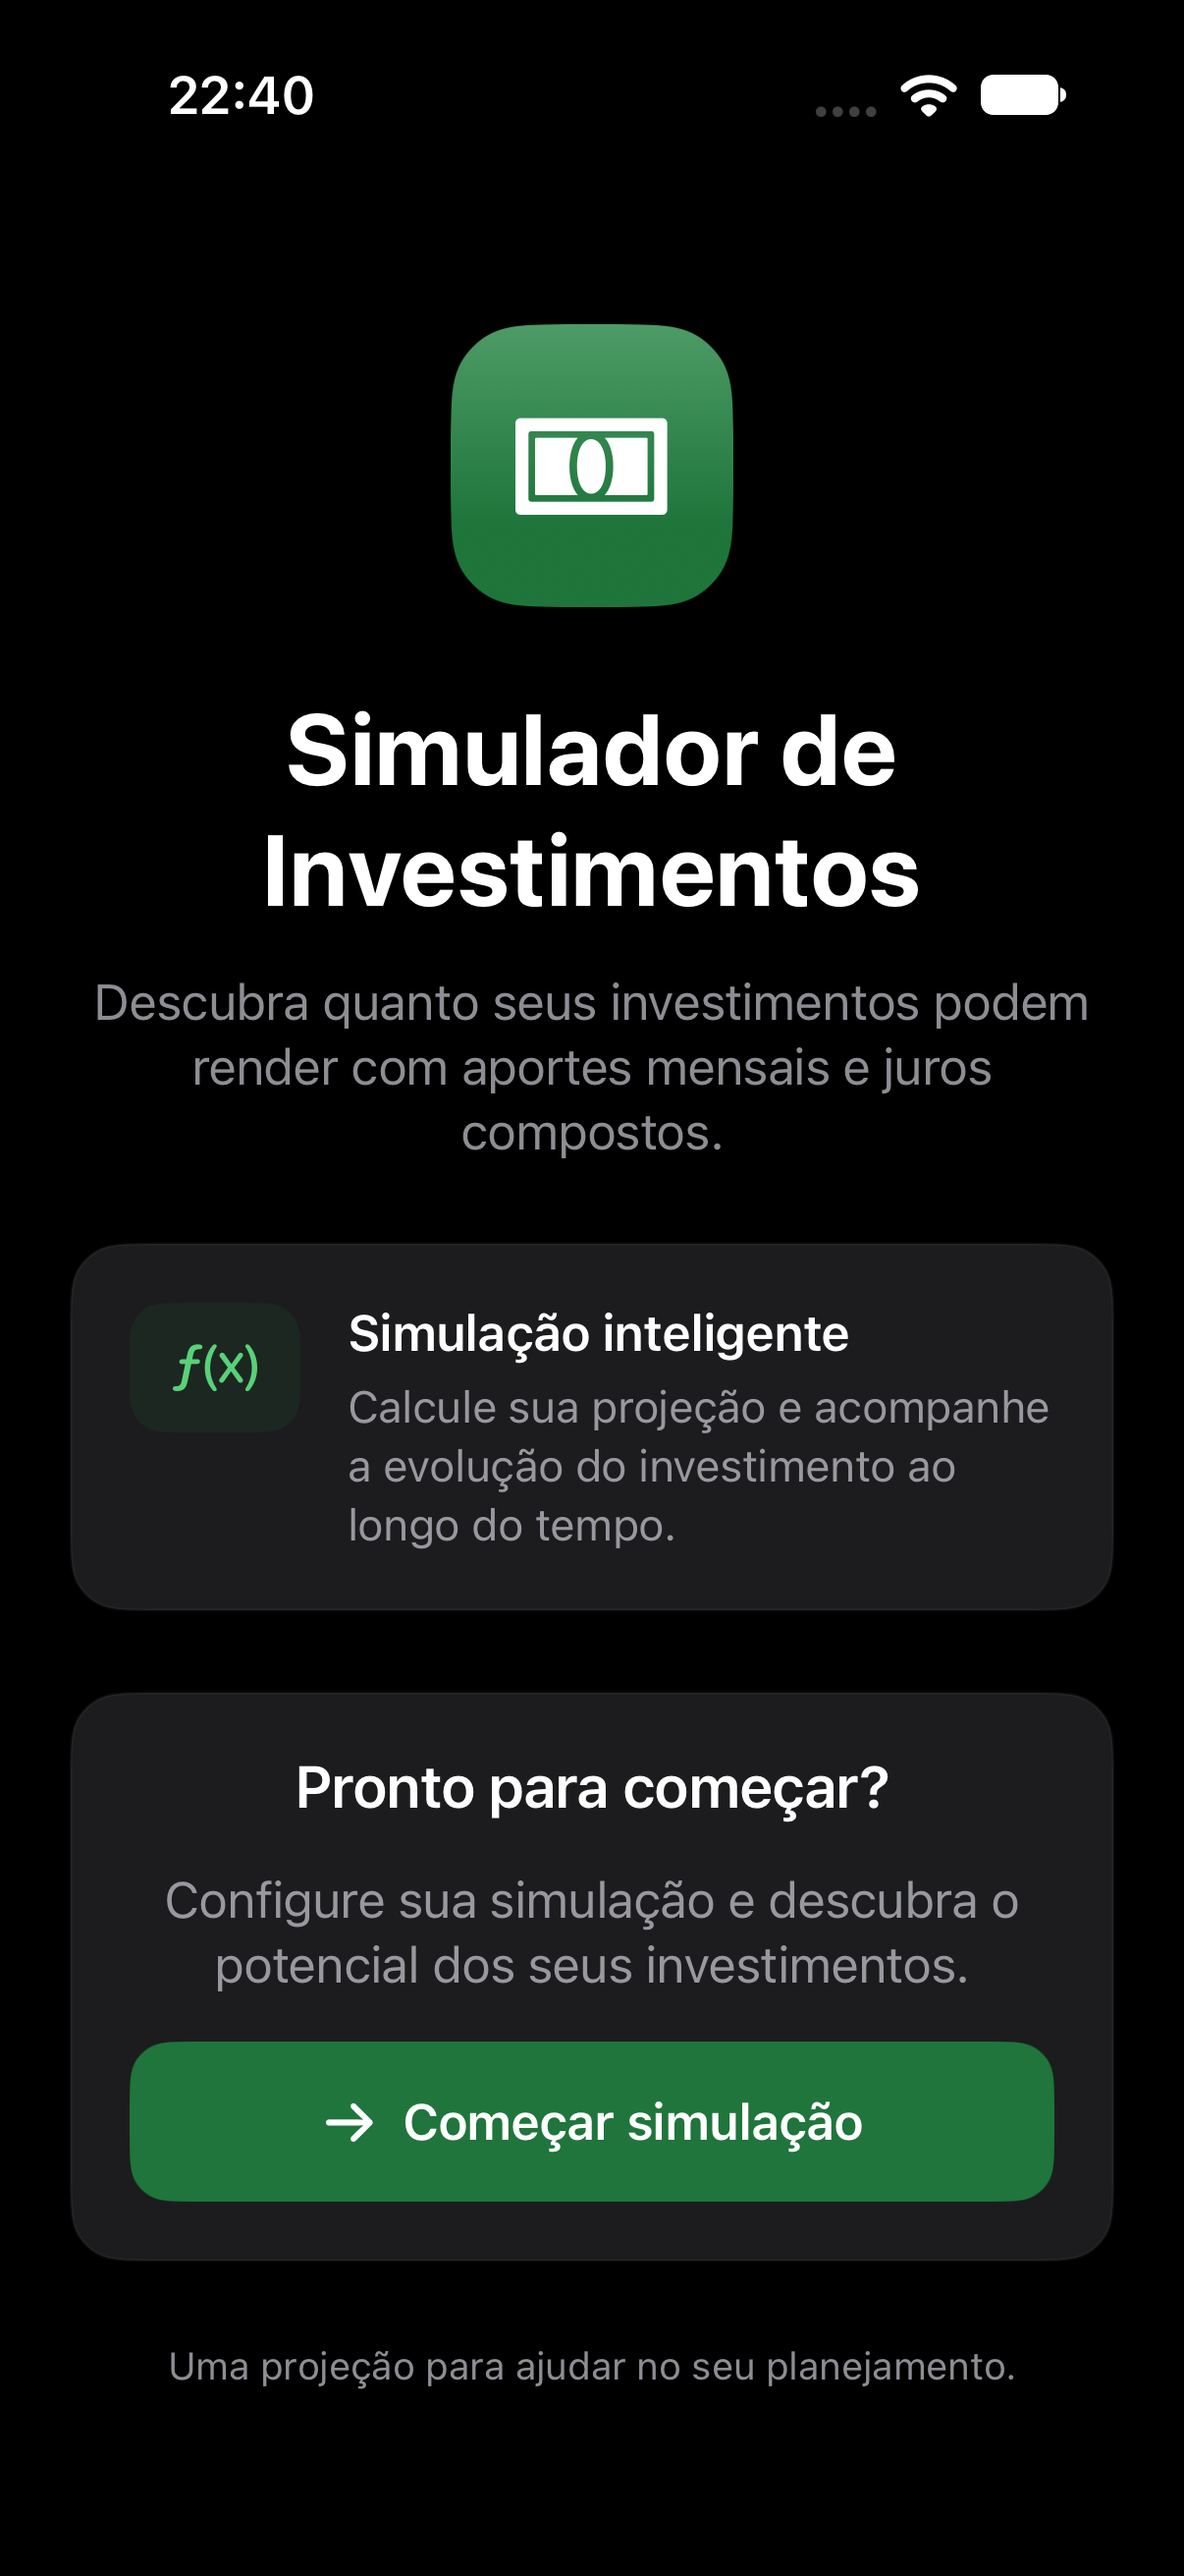
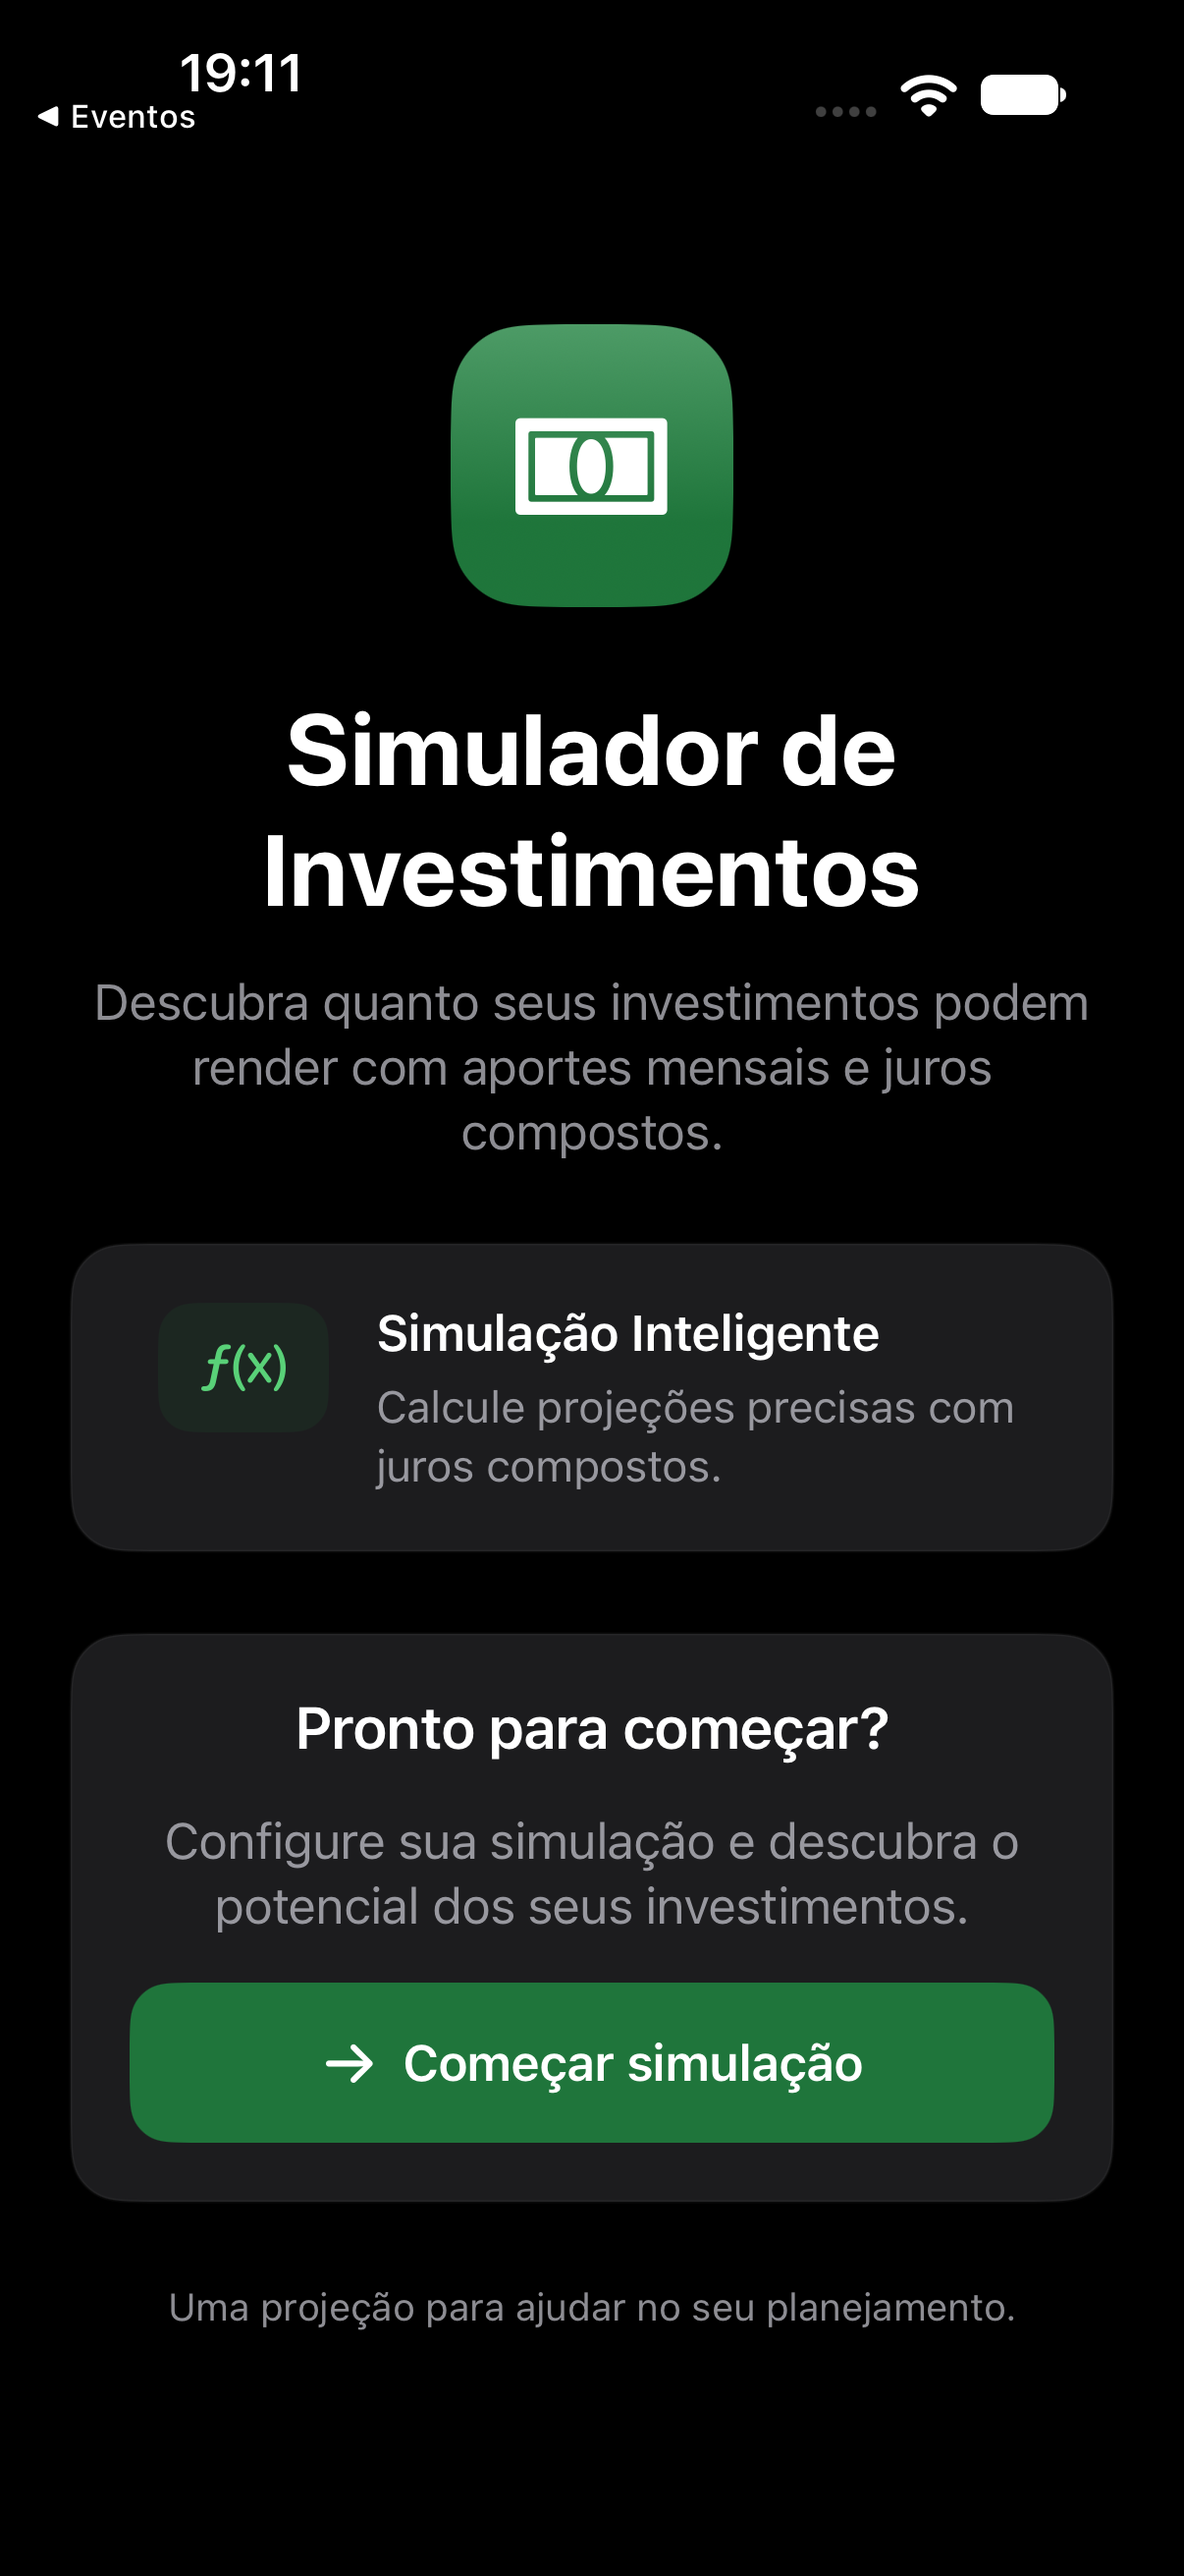
style(SimuladorInvestimentos): update dark mode screenshots and remove legacy form image

Changed region(s): [[0.0614, 0.4943, 0.9511, 0.9268], [0.0614, 0.0, 0.2761, 0.0618], [0.1534, 0.5252, 0.2454, 0.5561]]

diff --git a/SimuladorInvestimentos/README.md b/SimuladorInvestimentos/README.md
@@ -44,7 +44,16 @@ O app usa a composição verde e os cards claros da referência. O formulário e
 
 ## Screenshots
 
+### Modo Claro (Light Mode)
+
 | Tela Inicial (Boas-Vindas) | Formulário de Simulação | Resultado da Simulação |
 | :---: | :---: | :---: |
 | ![Boas-Vindas](Screenshots/welcome.png) | ![Formulário](Screenshots/form.png) | ![Resultado](Screenshots/result.png) |
+
+### Modo Escuro (Dark Mode)
+
+| Tela Inicial (Boas-Vindas) | Formulário de Simulação | Resultado da Simulação |
+| :---: | :---: | :---: |
+| ![Boas-Vindas Dark](Screenshots/welcome-dark.png) | ![Formulário Dark](Screenshots/form-dark.png) | ![Resultado Dark](Screenshots/result-dark.png) |
+
 
